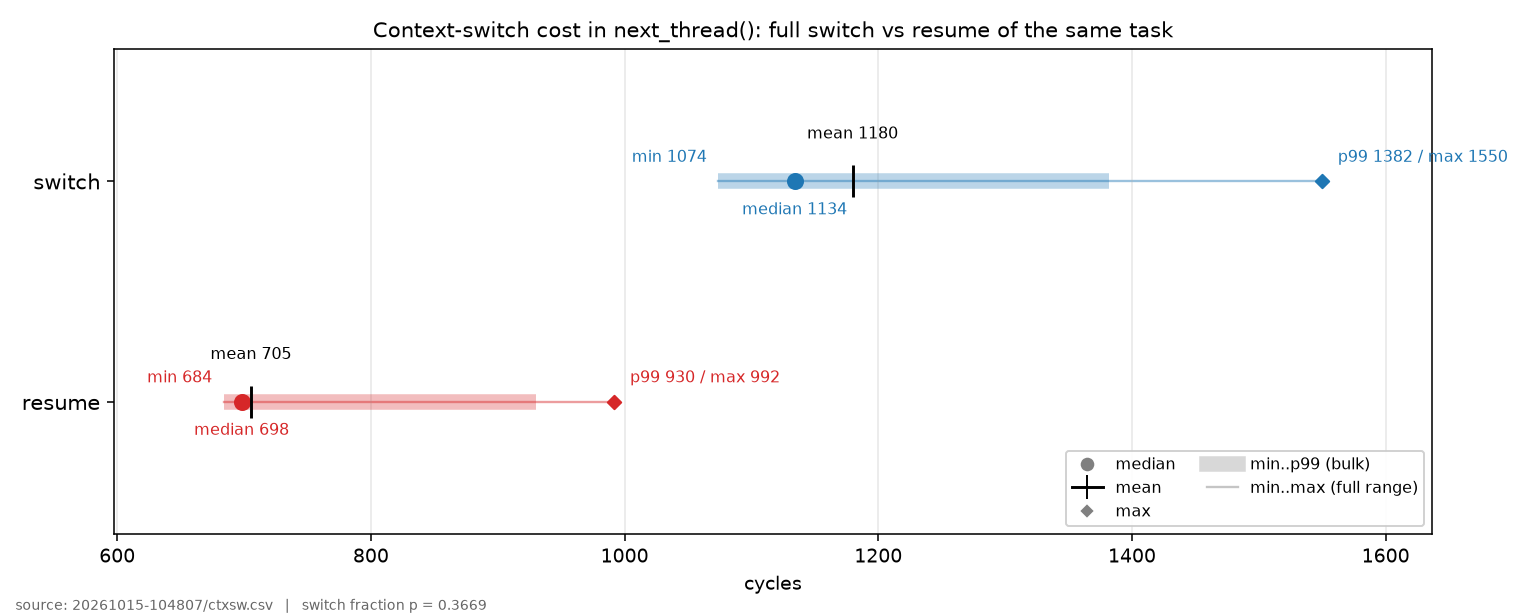
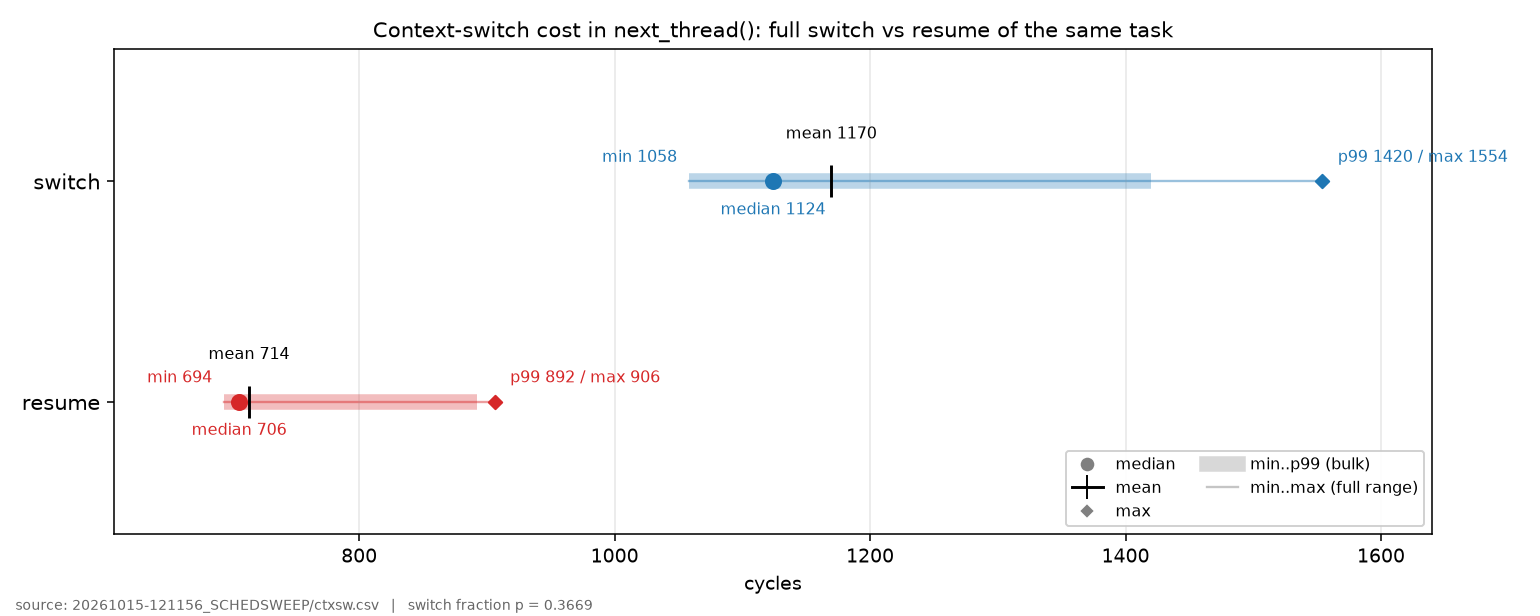
edit writeup and add readme

diff --git a/writeup.md b/writeup.md
@@ -1,12 +1,36 @@
 # Kairos: Bootable A9 RTOS from Scratch
 
+## TLDR
+
+I hacked an A9 into thinking it's a real-time processor.
+
+
+## Contents
+
+1. [Introduction](#introduction)
+2. [Preamble](#preamble)
+3. [Types of Memory and Fused Kernel-Preloaders](#types-of-memory-and-fused-kernel-preloaders)
+4. [A9 Hardware](#a9-hardware)
+5. [Important Specific Numbers](#important-specific-numbers)
+6. [Boot Sequence](#boot-sequence)
+7. [Allocator](#allocator)
+8. [Scheduler](#scheduler)
+    - [Schedulability Bounds](#schedulability-bounds)
+    - [Latency](#latency)
+9. [Limitations](#limitations)
+
+
+## Introduction
+
 The ARM Cortex-A9 is a relatively common microprocessor and shows up a lot as the integrated processor on smaller/older FPGA SOC's (think lower end Zynq boards, Cyclone V, etc). It's cheap, does microprocessor things reasonably well, has lots of support for interfacing with FPGA's as you'd expect, and tends to come in a nicely square-shaped package. It was also used in really old smartphones back in the day (the iPhone 4s A5 chip used two A9 cores, similar to the Cyclone V). The A9 was never designed to do real-time work though, which is ironic given its prevalence in FPGA SOC's. If one wants to do real-time work on the A9 they basically have three main solutions that can run (mostly) out of the box: 
 
 1. Embedded Linux - Not actually real-time and very bloated depending on what is needed
-2. FreeRTOS - Much leaner but not good for high utilization tasks and does not natively support SMP
+2. FreeRTOS - Much leaner but not good for high utilization tasks, and its SMP support is recent and not available on every port (the A9 included)
 3. Zephyr - Leaner than Linux and more capable than FreeRTOS but still somewhat bloated
 
-It would be nice to have a very lightweight and efficient real-time scheduler. I do a lot of control and DSP stuff so EDF is a good starting point here for me because 1: it's very good for dealing with hard periodic constraints and 2: It's relatively underserved: Embedded Linux is completely inappropriate for it, FreeRTOS doesn't natively support it, and Zephyr only uses it as a tiebreaking mechanism, not as the fundamental scheduling primitive. I'd also like SMP if at all possible as all the A9-based systems I've worked with have been dual-core. Lastly, I'd like to make whatever gets built bootable such that it can be loaded onto an SD card. For now we'll ignore the FPGA stuff and assume that gets handled separately; in the future I'd like to pack the FPGA image into the SD card slot and mount it as part of the boot process but that can wait. At the same time as all this, I'd like to answer the following question: just how inappropriate is the A9 for actual real-time work? I think it's fun to try and make hardware do stuff it isn't designed to do, and I've been asked this question multiple times before to which I gave the standard safe answer of "A9 isn't designed for this so we should keep all real-time functionality on the FPGA irrespective of how fast it actually needs to run". I still think this was probably the right answer, further reinforced by the fact that we had to run Linux on the A9 in this particular situation anyway. A more conclusive answer would still be appreciated though so attempting to get it seems reasonable enough.
+It would be nice to have a very lightweight and efficient real-time scheduler. I do a lot of control and DSP stuff so EDF is a good starting point here for me because 1: it's very good for dealing with hard periodic constraints and 2: It's relatively underserved: Embedded Linux is completely inappropriate for it, FreeRTOS doesn't natively support it, and Zephyr only uses it as a tiebreaking mechanism, not as the fundamental scheduling primitive. I'd also like SMP if at all possible as all the A9-based systems I've worked with have been dual-core. Lastly, I'd like to make whatever gets built bootable such that it can be loaded onto an SD card. For now we'll ignore the FPGA stuff and assume that gets handled separately; in the future I'd like to pack the FPGA image into the SD card slot and mount it as part of the boot process but that can wait.
+
+At the same time as all this, I'd like to answer one question: just how inappropriate is the A9 for actual real-time work? I think it's fun to try and make hardware do stuff it isn't designed to do, and I've been asked this question multiple times before to which I gave the standard safe answer of "A9 isn't designed for this so we should keep all real-time functionality on the FPGA irrespective of how fast it actually needs to run". I still think this was probably the right answer, further reinforced by the fact that we had to run Linux on the A9 in this particular situation anyway. A more conclusive answer would still be appreciated though so attempting to get it seems reasonable enough.
 
 This project can obviously become very big very fast so an 80/20 on the core components is most likely the best use of time if not attempting to build a commercial-grade system (I don't want to maintain or sell this. I just want to see A9 do dual core EDF and pack the whole thing on an SD card).
 
@@ -14,7 +38,7 @@ With all that said here's the (actual) preamble.
 
 ## Preamble
 
-We will build the thing for a Cyclone V (DE1-SOC) because that's what I currently own. Later on this may be extended to accomodate other systems as well but we'll only worry about this one for now. 
+We will build the thing for a Cyclone V (DE1-SOC) because that's what I currently own. Later on this may be extended to accommodate other systems as well but we'll only worry about this one for now. 
 
 We will assume the following basic operational behaviour is expected:
 
@@ -23,7 +47,7 @@ We will assume the following basic operational behaviour is expected:
 3. The system boots from the SD card whenever it's power cycled after which it proceeds to run the application code. It's assumed the application code may make use of the kernel but it shouldn't be a requirement.
 4. If a piece of hardware functionality is desired or not desired (caches, SMP etc), we pass these as compile parameters, we don't change them at runtime. 
 
-Since we're running on a real chip we need to make sure all the hardware is initialized properly at the right times. Some of the hardware is A9-specific (GIC, L1 caches). Other stuff is Cyclone-V specific (L2 cache, SDRAM PHY). If you don't know what these are don't worry about it they will be discussed in more detail later on. The point is we need to separate the board-specific functionality so that we can port to other systems more easily in the future. This is the point of something like a board support package (BSP). Our BSP will be very minimal. It's only role will be to set up the standard Cyclone V hardware components that are shared by both cores and useful for generic system operation. The rest of the hardware initialization can be carried out by the kernel. 
+Since we're running on a real chip we need to make sure all the hardware is initialized properly at the right times. Some of the hardware is A9-specific (GIC, L1 caches). Other stuff is Cyclone-V specific (L2 cache, SDRAM PHY). If you don't know what these are don't worry about it they will be discussed in more detail later on. The point is we need to separate the board-specific functionality so that we can port to other systems more easily in the future. This is the point of something like a board support package (BSP). Our BSP will be very minimal. Its only role will be to set up the standard Cyclone V hardware components that are shared by both cores and useful for generic system operation. The rest of the hardware initialization can be carried out by the kernel. 
 
 ### Disclaimer
 This document assumes a reasonable degree of fluency with basic systems programming and computer science concepts. If basic data structures or computer architecture concepts are not yet intuitive there are tons of guides online that do a really good job at explaining them. The purpose of this guide is not "explain what an interrupt is", but rather "explain how one uses things like hardware signals, data structures, and a known initial system state to build the low-level machinery that most users take for granted when running a program". There is a lot to cover so I will try my best to focus on the most non-trivial stuff possible while leaving things like "did u know u can control piece of hardware by writing to register" as an exercise to the reader.
@@ -34,14 +58,14 @@ All A9's have something called On-Chip RAM (OCRAM). It's exactly what you'd expe
 
 This is all to say we can combine the kernel with what would normally be considered a preloader and run it in OCRAM to slightly improve speed/determinism, especially when the caches are turned off. To put it into perspective, here's a speed comparison:
 
-![Uncached memory-access latency: SDRAM vs OCRAM, reads and writes (cycles)](figures/memlat_latency.png)
+<img src="figures/memlat_latency.png" alt="Uncached memory-access latency: SDRAM vs OCRAM, reads and writes (cycles)" width="700">
 
 
 ## A9 Hardware
 
 As alluded to earlier, we are using a real A9 on a real SOC and so we have to worry about the physical hardware. Here's a picture:
 
-![The A9-based Cyclone V hardware](figures/a9_fig2.webp)
+<img src="figures/a9_fig2.webp" alt="The A9-based Cyclone V hardware" width="700">
 
 Not pictured here is the Snoop Control Unit (SCU) which is used to manage cache coherence between both core's L1 caches and the MMU which is used for physical to virtual address translation and required for engaging the L1 data cache. For Kairos we make use of both L1 caches, the L2 cache, and the SCU.
 
@@ -63,7 +87,7 @@ Here are some specific numbers which may be important in certain contexts:
 We will now do an overview of how the system boots. 
 
 ### Boot ROM to Reset Vector
-All Boot ROM does is take a specific region of the SD card and move it into OCRAM, it then moves the PC to a specific address and reads a header. In the case of the Cyclone V this address is ```0x40``` and the preloader requires ```0x0C``` bytes of space allocated to the header. We populate this zone when we build the SD card image so we have to make sure that not code or data lives there.
+All Boot ROM does is take a specific region of the SD card and move it into OCRAM, it then moves the PC to a specific address and reads a header. In the case of the Cyclone V this address is ```0x40``` and the preloader requires ```0x0C``` bytes of space allocated to the header. We populate this zone when we build the SD card image so we have to make sure no code or data lives there.
 
 Once Boot ROM has run the header it moves the PC to the location specified in the header. We specify address 0X0 because that's where the reset vector in our vector table lives. From here we jump to ```_reset_handler``` in `startup.s`.
 
@@ -263,7 +287,7 @@ void cpu0_startup(void)
 }
 ```
 
-`cpu0_startup` first initializes the SDRAM PHY (lots of code to do this and most of it came from [U-Boot](https://github.com/u-boot/u-boot)). To do this it needs to first start the Cyclone V PLL machinery, configure the IO ring used to physically interface with the PHY, provide inputs to the PHY's control interface, run the PHY's calibration sequence, specify the size of the memory region, and remap the system's memory so that adress 0x0 starts at the bottom of the SDRAM block instead of boot ROM. From here we can enable the SCU and L2 if desired, then build our page tables. We will assume direct mapping between our virtual and physical memory. The page table allows for up to two levels of granularity. We only care about using the finer level when we want to make specific sections uncacheable, mainly for storing system diagnostic information to be read over JTAG. We set TTB pointers so we know where the page tables are, initialize CPU0's GIC and timers, start the PMU (this will be important in our scheduling policy later on), initialize the heap, and wait for CPU1 to signal that it's ready for the scheduler to be engaged (scheduler needs both cores live during SMP).  
+`cpu0_startup` first initializes the SDRAM PHY (lots of code to do this and most of it came from [U-Boot](https://github.com/u-boot/u-boot)). To do this it needs to first start the Cyclone V PLL machinery, configure the IO ring used to physically interface with the PHY, provide inputs to the PHY's control interface, run the PHY's calibration sequence, specify the size of the memory region, and remap the system's memory so that address 0x0 starts at the bottom of the SDRAM block instead of boot ROM. From here we can enable the SCU and L2 if desired, then build our page tables. We will assume direct mapping between our virtual and physical memory. The page table allows for up to two levels of granularity. We only care about using the finer level when we want to make specific sections uncacheable, mainly for storing system diagnostic information to be read over JTAG. We set TTB pointers so we know where the page tables are, initialize CPU0's GIC and timers, start the PMU (this will be important in our scheduling policy later on), initialize the heap, and wait for CPU1 to signal that it's ready for the scheduler to be engaged (scheduler needs both cores live during SMP).  
 
 
 
@@ -312,17 +336,21 @@ The allocator is initialized with the entire heap represented as a single free b
 
 The diagram below illustrates this process:
 
-![TLSF Structure](figures/tlsf_fig1.png)
+<img src="figures/tlsf_fig1.png" alt="TLSF Structure" width="700">
 
 
-In more detail: We have two levels of granularity - buckets, which progress as powers of 2, and bins, which split buckets evenly into 32 different size classes. We have one bitmap to encode all free buckets and an array of bitmaps to encode which bins inside that bucket are free. If any bin is free inside that bucket that bucket's respective map bit is set. Finding the first available bucket is very efficient as all we need to do is find the position of the leading one. From there we calculate the excess and find the first bin inside that bucket that could fit our target block. We then search all bins and buckets after and including this minimum in order to find the first available block of free memory. Once we allocate this free block we re-map the remainder to the first bucket-bin pair that it is larger than and set the relevant bits if no free block previously existed at that location. At the same time we clear the old bucket and bin bits if the old free block was the only free one for that size. We keep track of the free blocks for each size class using doubly linked list. Given m buckets and n bins this results in a maximum of mxn active free lists at a given time. Each free node needs a minimum of 16 bytes of space: 4 to store the size, 4 to store the logical predecessor, 4 to store the logical successor, and 4 to store the previous physical block address. Storing the previous physical block address is necessary to enable the following to take place: suppose a block of size k is freed and was located in front of another free block of size s; we want to be able to remove the s-sized free list entry and make a new (k+s) sized free list entry but we need the physical address of the previous block in order to check 'behind' to see if it is free. We would also want to coalesce any free blocks directly in front of our target if needed but we can get there for free because we know the size. Given every free block needs to be 16 bytes at a minimum that means the minimum size for an allocated block must also be 16 bytes wherein the size and previous physical address are held in the first 8 bytes followed by a minimum payload of 8 bytes, the first 8 of which get converted to the next/prev pointers when the block is freed.  
+In more detail: there are two levels of granularity. Buckets progress as powers of 2, and bins split each bucket evenly into 32 size classes. One bitmap marks which buckets hold any free block, and a per-bucket array of bitmaps marks which bins inside it are free. Finding the first usable bucket is just locating the leading one in the bitmap; from there we compute the excess, find the first bin in that bucket big enough for the request, and scan bins and buckets upward from that minimum for the first free block.
+
+When we carve out a block, we re-map the remainder to the largest bucket-bin pair it still fits, set the relevant bits if nothing free lived there before, and clear the old bucket/bin bits if that block was the last free one of its size. Free blocks in each class live in a doubly linked list, so with m buckets and n bins there are at most m×n active free lists.
+
+Each free node needs at least 16 bytes: 4 for the size, 4 for the logical predecessor, 4 for the logical successor, and 4 for the previous physical block's address. That last field is what lets us coalesce backwards. Say a block of size k is freed directly in front of a free block of size s: we want to drop the s entry and make one (k+s) entry, but to check whether the block *behind* us is free we need its physical address. Coalescing forwards is free because we already know our own size. Since every free block is at least 16 bytes, the minimum allocated block is also 16 bytes: the size and previous-physical address sit in the first 8, followed by an 8-byte minimum payload, whose first 8 bytes become the next/prev pointers once the block is freed.
 
 
-To put the performance advantages of TLSF into context, we compare it against a simple free-list allocator under fragmentation. The stand-in is FreeRTOS's `heap_4`. `heap_4` uses a single free list kept in address order. Every time a block is allocated, it trvaerses from the base to find the next free block of a viable size (O(N)). We compare worst-case bounds by allocating more and more blocks before our timed allocation to surface the worst-case runtime characteristics.
+To put the performance advantages of TLSF into context, we compare it against a simple free-list allocator under fragmentation. The stand-in is FreeRTOS's `heap_4`. `heap_4` uses a single free list kept in address order. Every time a block is allocated, it traverses from the base to find the next free block of a viable size (O(N)). We compare worst-case bounds by allocating more and more blocks before our timed allocation to surface the worst-case runtime characteristics.
 
-![Kairos TLSF: allocator cost vs fragmentation (free-list length)](figures/fragsweep_tlsf.png)
+<img src="figures/fragsweep_tlsf.png" alt="Kairos TLSF: allocator cost vs fragmentation (free-list length)" width="700">
 
-![FreeRTOS heap_4: allocator cost vs fragmentation (free-list length)](figures/fragsweep_heap4.png)
+<img src="figures/fragsweep_heap4.png" alt="FreeRTOS heap_4: allocator cost vs fragmentation (free-list length)" width="700">
 
 
 
@@ -355,7 +383,7 @@ Kairos uses a hybrid Earliest Deadline First (EDF) Round-Robin (RR) Scheduler. T
 
 3. Check FIFO for any tasks that haven't been added to the scheduling pool. If the task is RT release it immediately and add it to the deadline heap. If it's not RT add it to the appropriate RR-FIFO based on priority.
 
-4. Check the release heap to see if any tasks are releasable. We will always see them the first cycle they become releasable because the ticker increments via the scheduler routine. When releasable pop fron RelHeap, set deadheap to release time (current ticks) + period, and add to deadline heap. 
+4. Check the release heap to see if any tasks are releasable. We will always see them the first cycle they become releasable because the ticker increments via the scheduler routine. When releasable pop from RelHeap, set deadheap to release time (current ticks) + period, and add to deadline heap. 
 
 5. Pop first runnable task from deadline heap. This task is guaranteed to have the earliest deadline. If task is finished and aperiodic, remove it from the heap and add it to the outgoing_threads fifo. If it's finished and periodic increment its release time by 1 period and move it to RelHeap if that release time hasn't been passed yet or DeadHeap if it has. 
 
@@ -375,7 +403,7 @@ Acknowledging a tick is therefore two levels. The asm `_irq_handler` first calls
 
 During SMP, the load balancer tracks utilization and assigns new periodic tasks to whichever core has lower utilization at that time. An EMA filter is used on the utilization calculations in order to provide a less volatile estimate. Persistent task may also be pinned to whichever core has lower utilization (as well as arbitrarily if desired) but they do not contribute to the utilization estimate themselves. The mechanics above lead to the following two important points:
 
-1. If overall per-core utilization goes over 1.0, the system is unpredicatable
+1. If overall per-core utilization goes over 1.0, the system is unpredictable
 
 2. If persistent tasks are not pinned wisely or the cores are otherwise very high-u they may be starved.
 
@@ -416,7 +444,7 @@ Now say we shorten task 2's period to 9s. You can no longer fit 10 of those (0.9
 
 The figures below show EDF running on real hardware at different utilizations:
 
-![EDF schedulability: deadline misses vs configured utilization, showing the crossover at U = 1](figures/edf_crossover.png)
+<img src="figures/edf_crossover.png" alt="EDF schedulability: deadline misses vs configured utilization, showing the crossover at U = 1" width="700">
 
 The taskset runs completely clean up to $U \approx 0.99$ and only begins missing right as $U$ reaches 1. The reason it starts missing before $U=1.0$ can be explained as follows: In our previous example we showed that $U = 1.0$ for $(0.9, 1), (1, 10)$. However, this doesn't account for scheduler overhead. Real schedulers take time to run their context switches and that time eats into the slack. The real budget for task 1 might looks something more like $(0.9, 0.095, 0.05)$ where the last coordinate denotes time spent in the scheduler. There's also no guarantee this slack is constant, as it depends on the state of the EDF heaps, SDRAM access latency (thread control blocks nominally live in SDRAM which as shown above does not provide constant read latency), and possible heap operations (freeing of outgoing threads for example, these could be moved to a persistent garbage collection routine to preserve scheduler determinism if desired in the future).
 
@@ -427,17 +455,17 @@ The taskset runs completely clean up to $U \approx 0.99$ and only begins missing
 
 Speaking of jitter, here are some figures detailing the IRQ latency and context switch cost:
 
-![IRQ dispatch latency: cycles from the GIC SGI trigger to the ISR body](figures/irqlat_latency.png)
+<img src="figures/irqlat_latency.png" alt="IRQ dispatch latency: cycles from the GIC SGI trigger to the ISR body" width="700">
 
-![Context-switch cost in next_thread(): a full switch to a different task vs a resume of the same task](figures/ctxsw_latency.png)
+<img src="figures/ctxsw_latency.png" alt="Context-switch cost in next_thread(): a full switch to a different task vs a resume of the same task" width="700">
 
-The A9 here runs at 800 MHz (the Main PLL VCO is 1.6 GHz and the MPU clock is half of that). The global timer runs at a quarter of the MPU clock i.e. 200 MHz. Given `AUTOINC = 199999`, we have one IRQ every 200000 of its counts i.e. 1 kHz. Given that we use the Performance Monitoring Unit (PMU)'s cycle counter to calculate latency at different points in our system, we can decompose all operations carried out by the processor into collections of 1.25ns tick increments.
+The A9 runs at 800 MHz, so each cycle is 1.25 ns. You can double-check the clock against the tick: the global timer runs at a quarter of the MPU clock (200 MHz), and `AUTOINC = 199999` gives one IRQ every 200000 counts, i.e. 1 kHz. We measure latency with the Performance Monitoring Unit (PMU)'s cycle counter, so every number below is a count of 1.25 ns cycles.
 
-IRQ dispatch incurrs a 166 cycles median (~0.21 µs) with essentially everything inside 161–173 cycles. The single worst sample over 1024 trials is 232 cycles (~0.29 µs). The context switch inside `next_thread()` can either resume the same task or start a new one. Starting a new task may require O(log n) heap operations so the latency is higher and more variable. Resuming costs ~730 cycles median (~0.91 µs). Switching costs ~1140 cycles median (~1.43 µs), tailing to 1627 cycles (~2.03 µs) in the worst case. Note that this switching cost is only for this particular workload. We'll see shortly that it goes up as the EDF heep becomes more and more loaded. For future reference the test above used 3 periodic tasks and no persistent ones.
+IRQ dispatch has a 166 cycle median (~0.21 µs), with essentially everything inside 162–175 cycles and a single worst sample over 1024 trials of 236 cycles (~0.30 µs). The context switch inside `next_thread()` either resumes the same task or starts a new one. Starting a new one can require O(log n) heap operations, so it is slower and more variable: resuming costs ~706 cycles median (~0.88 µs), switching ~1124 cycles median (~1.41 µs), tailing to 1554 cycles (~1.94 µs) in the worst case. That is for one workload (3 periodic tasks, no persistent ones); we'll see shortly that the switch cost climbs as the EDF heap fills.
 
-Timing variance is generally more of a concern than latency for Real-Time work. IRQ dispatch varies by ~70 cycles (~90 ns) across its whole range, the switch by ~550 cycles (~0.7 µs), and both have short tails rather than fat ones. Against the 1 ms scheduler tick (200000 cycles) the worst-case switch is 0.8% of a tick and the worst-case IRQ dispatch is 0.12%. For periodic control/DSP work in the kHz range the per-event jitter sits three to four orders of magnitude below the deadline.
+For real-time work the timing variance matters more than the latency. IRQ dispatch varies by ~70 cycles (~90 ns) across its whole range, the switch by ~500 cycles (~0.6 µs), and both have short tails rather than fat ones. Against the 1 ms scheduler tick (200000 cycles) the worst-case switch is 0.8% of a tick and the worst-case IRQ dispatch is 0.12%. For periodic control/DSP work in the kHz range the per-event jitter sits three to four orders of magnitude below the deadline.
 
-So how does that stack up? FreeRTOS on a Cortex-M quotes ~86 cycles for its context switch in its own FAQ, and independent measurements land around [~220 cycles on a Cortex-M4](https://www.researchgate.net/figure/Time-for-FreeRTOS-task-context-switching-on-STM32F407IG-ARM-Cortex-M4-for_fig2_325358846). In cycles that makes our ~1140 look terrible but cycles aren't directly comparable because the Cortex-M is also clocked differently. A Cortex-M4 clocks at ~100–180 MHz, so ~86–220 cycles is ~0.5–1.3 µs of wall-clock which is comparable to our ~1.43 µs. The surprising result here is we can achieve this on a dual-core A9 that drags caches, an MMU, and SMP coherence along while having to save the full register file by hand. In absolute time we're basically even with the Cortex-M RTOS everyone benchmarks against. The one place the Cortex-M flatly wins is interrupt *entry*: its NVIC reaches the ISR in a hardware-fixed 12 cycles (~70 ns) with zero jitter, where our GIC path is ~0.21 µs with a small tail. The GIC hardware simply isn't designed to guarantee fixed, low latency entry and there's nothing we can do to change that.
+So how does that stack up? FreeRTOS on a Cortex-M quotes ~86 cycles for its context switch in its own FAQ, and independent measurements land around [~220 cycles on a Cortex-M4](https://www.researchgate.net/figure/Time-for-FreeRTOS-task-context-switching-on-STM32F407IG-ARM-Cortex-M4-for_fig2_325358846). In cycles our ~1124 looks terrible, but cycles aren't comparable across parts clocked differently. A Cortex-M4 runs at ~100–180 MHz, so ~86–220 cycles is ~0.5–1.3 µs of wall-clock, comparable to our ~1.41 µs. The surprise is that we hit that on a dual-core A9 that drags caches, an MMU, and SMP coherence along while saving the full register file by hand. In absolute time we're basically even with the Cortex-M RTOS everyone benchmarks against. The one place the Cortex-M flatly wins is interrupt *entry*: its NVIC reaches the ISR in a hardware-fixed 12 cycles (~70 ns) with zero jitter, where our GIC path is ~0.21 µs with a small tail. The GIC just isn't built to guarantee fixed, low-latency entry, and there's nothing we can do about that.
 
 The verdict: for the firm/soft real-time periodic workloads this targets, the jitter is comfortably sufficient, negligible against millisecond-scale deadlines, and competitive in absolute time with FreeRTOS on a Cortex-M. This is a genuinely surprising result for a chip supposedly unfit for real-time usage. Where it would fall short is sub-microsecond *hard* determinism, tight interrupt-to-pin response, or MHz-rate edges, where the GIC tail and cache jitter matter and a bare Cortex-M (or the FPGA fabric) is the right tool, which is exactly the work you'd want to keep off the A9 anyway. 
 
@@ -447,29 +475,29 @@ The Kairos EDF scheduler uses min-heaps. These incur a O(log n) worst case bound
 
 To see what that costs in practice, we can sweep the per-tick scheduler work against the number of loaded tasks (1 to 64), single core, underloaded so each task does almost nothing and the curve isolates the scheduler's own bookkeeping rather than compute. The same sweep runs on both kernels on the same chip: Kairos times its `next_thread()` (the full per-tick switch decision), and FreeRTOS times `xTaskIncrementTick` under its own scheduler.
 
-![Kairos EDF: per-tick scheduler cost vs loaded task count](figures/schedsweep_kairos.png)
+<img src="figures/schedsweep_kairos.png" alt="Kairos EDF: per-tick scheduler cost vs loaded task count" width="700">
 
-![FreeRTOS fixed-priority: per-tick scheduler cost vs loaded task count](figures/schedsweep_freertos.png)
+<img src="figures/schedsweep_freertos.png" alt="FreeRTOS fixed-priority: per-tick scheduler cost vs loaded task count" width="700">
 
-Two things stand out. First, both medians are flat: the common-case tick is cheap and barely moves with task count, ~708 cycles (~0.89 µs) for Kairos and ~357 cycles (~0.45 µs) for FreeRTOS, all the way out to 64 tasks. The O(log n) does not show up in the typical tick because the typical tick does not release anything. Secondly, the two diverge in the tails. FreeRTOS stays bounded: its worst sample is ~469 cycles at one task and ~505 cycles (~0.63 µs) at 64, essentially flat, because fixed-priority selection pulls the top ready task off a bitmap in O(1) and just walks whatever came due off the delayed list with no reordering. Kairos's tail climbs with task count: p99 goes 1072 to 1739 cycles and the worst single tick goes from 1296 cycles (~1.6 µs) at one task to 7271 cycles (~9.1 µs) at 64. That growth is due to minheap operations. EDF keeps the deadHeap set ordered by deadline and the relHeap set ordered by release time, so each release from relHeap is a O(log n) extract + insertion into deadHeap, and every finished periodic task is a O(log n) extract + insertion from deadHeap to relHeap. When several tasks come due in the same tick the worst-case tick stacks several of those on top of each other, so in the future a time-staggering mechanism may be a good idea for periodic tasks that are commited to the scheduler at the same time. 
+Two things stand out. First, both medians are flat: the common-case tick is cheap and barely moves with task count, ~708 cycles (~0.89 µs) for Kairos and ~357 cycles (~0.45 µs) for FreeRTOS, all the way out to 64 tasks. The O(log n) does not show up in the typical tick because the typical tick does not release anything. Secondly, the two diverge in the tails. FreeRTOS stays bounded: its worst sample is ~469 cycles at one task and ~505 cycles (~0.63 µs) at 64, essentially flat, because fixed-priority selection pulls the top ready task off a bitmap in O(1) and just walks whatever came due off the delayed list with no reordering. Kairos's tail climbs with task count: p99 goes 1072 to 1739 cycles and the worst single tick goes from 1296 cycles (~1.6 µs) at one task to 7271 cycles (~9.1 µs) at 64. That growth is due to minheap operations. EDF keeps the deadHeap set ordered by deadline and the relHeap set ordered by release time, so each release from relHeap is a O(log n) extract + insertion into deadHeap, and every finished periodic task is a O(log n) extract + insertion from deadHeap to relHeap. When several tasks come due in the same tick the worst-case tick stacks several of those on top of each other, so in the future a time-staggering mechanism may be a good idea for periodic tasks that are committed to the scheduler at the same time. 
 
 As we'd expect, fixed-priority is the cheaper and flatter scheduler here, roughly 2x less per tick at the baseline and a worst case that does not grow with the taskset. Kairos pays that premium for dynamic deadline ordering, the thing fixed-priority structurally cannot do, plus the dual-core balancing and the persistent class layered on top. And the premium is small against the deadline it has to clear: even Kairos's worst tick at 64 tasks is 3.6% of the 1 ms tick (200000 cycles), where FreeRTOS sits at 0.25%, so neither scheduler is anywhere near being the bottleneck for the kHz-scale periodic work this targets.
 
-Additionally, if RR scheduling is desired Kairos can also support that too, just like FreeRTOS,
+And if you only need plain round-robin scheduling, Kairos supports that too, just like FreeRTOS.
 
 
 
 ## Limitations
 
-If it wasn't apparent by now this isn't a production-ready kernel at all. Here's a non-exshaustive list of limitations with the system:
+If it wasn't apparent by now this isn't a production-ready kernel at all. Here's a non-exhaustive list of limitations with the system:
 
 1. It is currently only ported for the Cortex-A9 implementation on the Cyclone-V SoC
-2. All real-time bounds are empirircally derived, not formally verified
+2. All real-time bounds are empirically derived, not formally verified
 3. The kernel is not robust at all
 4. The only synchronization primitive currently provided is a binary semaphore with a few different penalty mechanisms
 5. The test code is kind of a mess
 6. Did I mention the thing isn't robust?
 
-The reality is I've worked on this thing on and off for a few months now and most of the reward obtained has come firstly from implementing the kernel by hand because I'm weird and i like doing stuff like this and secondly from the joy of seeing an A9 do things that it was never advertised to do. The marginal effort to learning ratio required to go from where this project is now to something that could be mistaken for a hardened production-ready system is not worth it for me and I wanna start working on other things. As such, I've decided to release the project as-is with absolutely no guarantees of further updates. The code is available [here](https://github.com/nolanmccleary/kairos) and I would happily invite any discussions regarding test accuracy etc. The harness is kind of jank but if you have a DE1-SoC and an SD card you should be able to run everything and reproduce my resuts with minimal effort. 
+The reality is I've worked on this thing on and off for a few months now and most of the reward obtained has come firstly from implementing the kernel by hand because I'm weird and i like doing stuff like this and secondly from the joy of seeing an A9 do things that it was never advertised to do. The marginal effort to learning ratio required to go from where this project is now to something that could be mistaken for a hardened production-ready system is not worth it for me and I wanna start working on other things. As such, I've decided to release the project as-is with absolutely no guarantees of further updates. The code is available [here](https://github.com/nolanmccleary/kairos) and I would happily invite any discussions regarding test accuracy etc. The harness is kind of jank but if you have a DE1-SoC and an SD card you should be able to run everything and reproduce my results with minimal effort. 
 
-There's also of course the obligatory AI disclaimer/limitation/whatever you want to call it. Most of the test code was written by Claude, most of the BSP code was either written by Claude or used old intel/altera/uboot code that it stitched together. Pretty much the entire kernel was written by hand but I'm sure Claude could improve it from it's current state. I split things this way because I wanted to get the highest amount of learning per unit time. If I wanted to completely master Cyclone V I would do everything by hand. If I was trying to ship a product I'd probably lean on Claude more. This for me at this point in time provides a happy middle ground and I'm satisfied with the outcome.
+There's also of course the obligatory AI disclaimer/limitation/whatever you want to call it. Most of the test code was written by Claude, most of the BSP code was either written by Claude or used old intel/altera/uboot code that it stitched together. Pretty much the entire kernel was written by hand but I'm sure Claude could improve it from its current state. I split things this way because I wanted to get the highest amount of learning per unit time. If I wanted to completely master Cyclone V I would do everything by hand. If I was trying to ship a product I'd probably lean on Claude more. This for me at this point in time provides a happy middle ground and I'm satisfied with the outcome.

diff --git a/README.md b/README.md
@@ -1,0 +1,185 @@
+# Kairos
+
+A from-scratch, bootable real-time kernel for the ARM Cortex-A9, targeting the Terasic
+DE1-SoC (Cyclone V). Dual-core SMP, a hybrid Earliest-Deadline-First + round-robin
+scheduler, a TLSF allocator, and its own boot path (no U-Boot, no Linux) that runs from
+on-chip RAM and boots off a microSD card.
+
+This README is a build-and-run guide written by Claude. For the design writeup (why EDF, the boot sequence,
+the scheduler internals, and the benchmark results), or to simply read human writing, see [`writeup.md`](writeup.md).
+
+
+
+## TLDR
+
+```bash
+# Kairos battery, loaded over JTAG (no SD card needed)
+make build/test.elf
+python3 test.py            # starts OpenOCD, loads the ELF, runs, writes figures to test_results/
+
+# FreeRTOS battery (head-to-head comparison), same flow
+make FREERTOS=1 build/test.elf
+python3 test_freertos.py
+```
+
+## What's in the box
+
+There are two independent test "batteries," each with its own binary and its own driver
+script:
+
+| Battery  | Build                           | Driver              | Scheduler / allocator        |
+|----------|----------------------------------|---------------------|------------------------------|
+| Kairos   | `make build/test.elf`            | `python3 test.py`   | Kairos EDF+RR / TLSF         |
+| FreeRTOS | `make FREERTOS=1 build/test.elf` | `python3 test_freertos.py` | FreeRTOS fixed-priority / heap_4 |
+
+Both are built from the same source tree and run on the same chip, so the numbers are
+directly comparable. The FreeRTOS battery vendors FreeRTOS-Kernel V11.1.0 (MIT).
+
+## Prerequisites
+
+### Hardware
+- Terasic **DE1-SoC** (Cyclone V) board
+- Its on-board **USB-Blaster II** JTAG (a USB cable to the host)
+- A **microSD card** (only needed for the self-boot flow, not for JTAG-loaded runs)
+
+### Software
+- **ARM bare-metal toolchain**: `arm-none-eabi-gcc` (plus `objcopy`/`objdump`/`nm`). The
+  build is GCC-only and does not use newlib.
+- **OpenOCD** (drives the USB-Blaster II)
+- **Python 3** with **matplotlib** (the drivers collect telemetry and render figures)
+- **u-boot-tools** for `mkimage` (only needed for `make boot`)
+- *(optional)* **cppcheck** for `make lint`
+
+```bash
+# macOS
+brew install --cask gcc-arm-embedded
+brew install open-ocd u-boot-tools
+pip3 install matplotlib
+
+# Debian/Ubuntu
+sudo apt install gcc-arm-none-eabi openocd u-boot-tools python3-matplotlib
+```
+
+The OpenOCD config and USB-Blaster II firmware live in [`openocd/`](openocd/)
+(`de1soc.cfg`); the test drivers launch OpenOCD against it for you. If the blaster is
+wedged (first plug-in, or after a bad run), power-cycle it.
+
+## Building
+
+```bash
+make build/test.elf              # Kairos battery
+make FREERTOS=1 build/test.elf   # FreeRTOS battery
+make clean                       # remove build/
+```
+
+The ELF is self-contained: the kernel runs from OCRAM and the application/test code is
+placed in SDRAM. `build/test.dis` is the disassembly for the last build.
+
+### Build configuration
+
+Hardware features and the test payload are compile-time flags (pass them on the `make`
+line, e.g. `make ENABLE_SMP=0 build/test.elf`). They are also emitted into the ELF symbol
+table, so the host reads the exact config back from the image.
+
+| Flag                | Default | Meaning                                                        |
+|---------------------|---------|----------------------------------------------------------------|
+| `ENABLE_MMU`        | `1`     | MMU + page tables (required for D-cache, L2, SMP)              |
+| `ENABLE_DCACHE`     | `1`     | L1 data cache                                                  |
+| `ENABLE_ICACHE`     | `1`     | L1 instruction cache                                           |
+| `ENABLE_L2`         | `1`     | PL310 outer (L2) cache                                         |
+| `ENABLE_SMP`        | `1`     | bring up CPU1 and the SCU; single-core if `0`                 |
+| `ENABLE_NULL_GUARD` | `1`     | unmap the low 1 MB so NULL / near-NULL derefs fault           |
+| `FREERTOS`          | `0`     | build the FreeRTOS battery instead of Kairos                  |
+| `BOOT_TEST`         | `0`     | compile in the self-boot gate (set by `make boot`)            |
+| `BOARD`             | `cyclone_v` | `cyclone_v` (real HW) or `qemu` (vexpress-a9)             |
+
+## Running the tests
+
+There are two ways to get a binary onto the chip. The JTAG flow is faster for iteration;
+the self-boot flow proves the thing actually boots from an SD card.
+
+### JTAG-loaded (default, no SD card)
+
+The driver starts OpenOCD, loads the ELF straight into memory over JTAG, releases the
+core, collects telemetry, and writes figures + CSVs to a timestamped folder under
+`test_results/`.
+
+```bash
+make build/test.elf
+python3 test.py
+# or, equivalently, build + run in one step:
+make test
+```
+
+FreeRTOS battery:
+
+```bash
+make FREERTOS=1 build/test.elf
+python3 test_freertos.py
+```
+
+### Self-boot from microSD
+
+`make boot` rebuilds with the boot gate, wraps the OCRAM image as a preloader, and writes
+it to the card's `0xA2` partition (it locates the card safely and writes only that slice,
+no reformat). Use `FLASH_DRYRUN=1` to detect the card and stop before writing.
+
+```bash
+make boot                    # Kairos battery
+make boot FREERTOS=1         # FreeRTOS battery
+make boot FLASH_DRYRUN=1     # detect the card, write nothing
+```
+
+> Note: `make boot` flashes the preloader but does **not** yet place `build/app.bin` on the
+> card. Write `app.bin` to the card at `SD_APPCODE_LBA` (see [`bsp/sd.c`](bsp/sd.c)) as a
+> separate step.
+
+Then put the card in the board, power-cycle it, and attach:
+
+```bash
+python3 test.py --bootable          # Kairos
+python3 test_freertos.py --bootable # FreeRTOS
+```
+
+In `--bootable` mode the board self-boots and spins at the boot gate; the driver attaches
+over JTAG and releases it, rather than loading the ELF itself. Run `make clean` afterwards
+so the gate isn't left compiled into a later `make test`.
+
+## Results
+
+Each run writes to `test_results/<timestamp>[-freertos]/`:
+
+- `*.csv` — the raw/summary telemetry
+- `*.png` — rendered figures (allocator sweeps, EDF schedule, context-switch and IRQ
+  latency distributions, scheduler-cost-vs-task-count, etc.)
+
+Curated runs used in the writeup are kept under `benchmarks/`, and the figures referenced
+by `writeup.md` live in `figures/`.
+
+## Repository layout
+
+```
+kernel/        scheduler, threads, startup.s, GIC/timer/PMU/MMU, TLSF allocator
+bsp/           board support: SDRAM PHY bring-up, SD, caches (Cyclone V specific)
+linker/        linker scripts (OCRAM/SDRAM placement)
+bench/         on-target workloads + telemetry hooks (ktrace)
+freertos_port/ vendored FreeRTOS-Kernel + the DE1 glue for the FreeRTOS battery
+openocd/       OpenOCD config + USB-Blaster II firmware
+scripts/       SD flashing + figure renderers
+test.py        Kairos battery driver
+test_freertos.py  FreeRTOS battery driver
+writeup.md     the design writeup
+```
+
+## Other targets
+
+```bash
+make lint                    # gcc -Wall -Wextra ... + cppcheck over the sources
+make BOARD=qemu build/test.elf   # build for QEMU vexpress-a9 instead of real HW
+```
+
+## License
+
+The vendored FreeRTOS kernel under `freertos_port/FreeRTOS-Kernel/` is MIT (see its
+`LICENSE.md`). Portions of the BSP derive from Intel/Altera and U-Boot sources. For the
+rest, see the repository.
